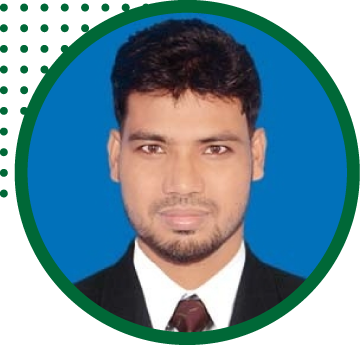
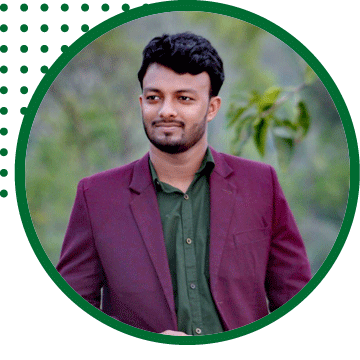
member added

diff --git a/client/src/utils/Members.js b/client/src/utils/Members.js
@@ -38,8 +38,8 @@ export const Members = [
   },
   {
     id: 6,
-    name: "Gazi Mizanur Rahman",
-    role: "Founder & CEO",
+    name: "Sajedul Islam Rabby",
+    role: "Director",
     img: imag8,
   },
 ];
